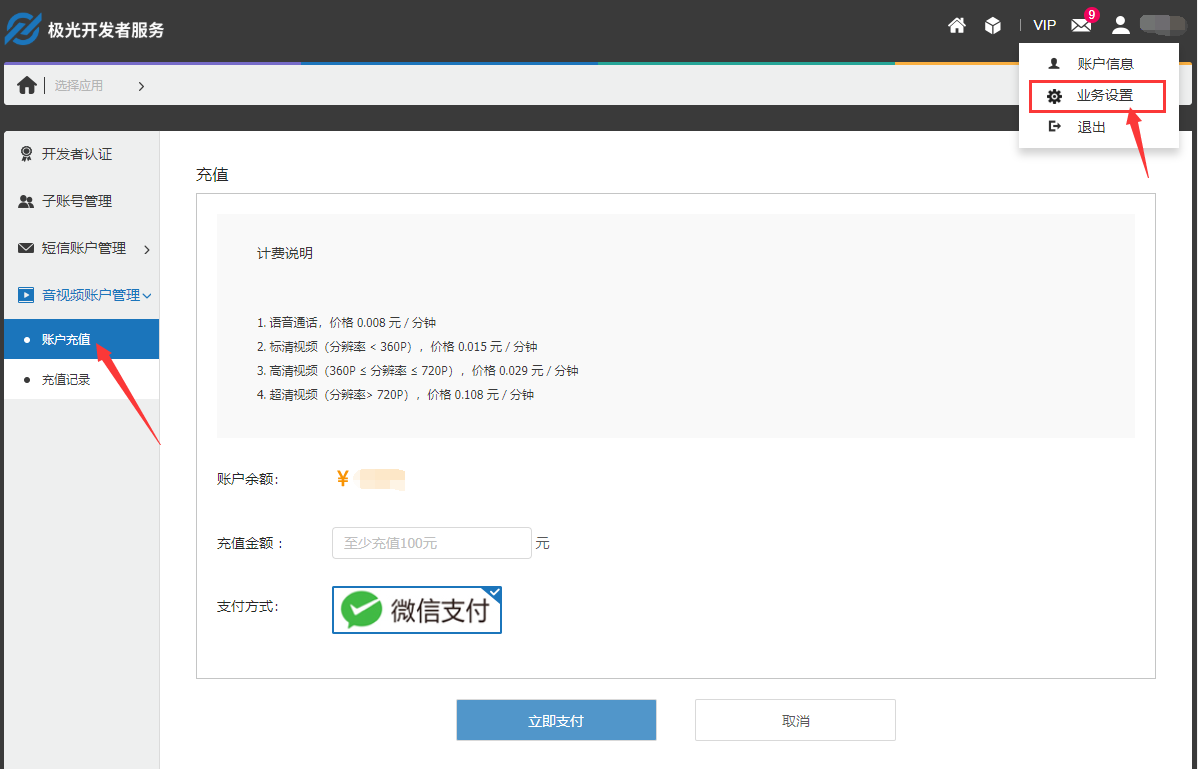
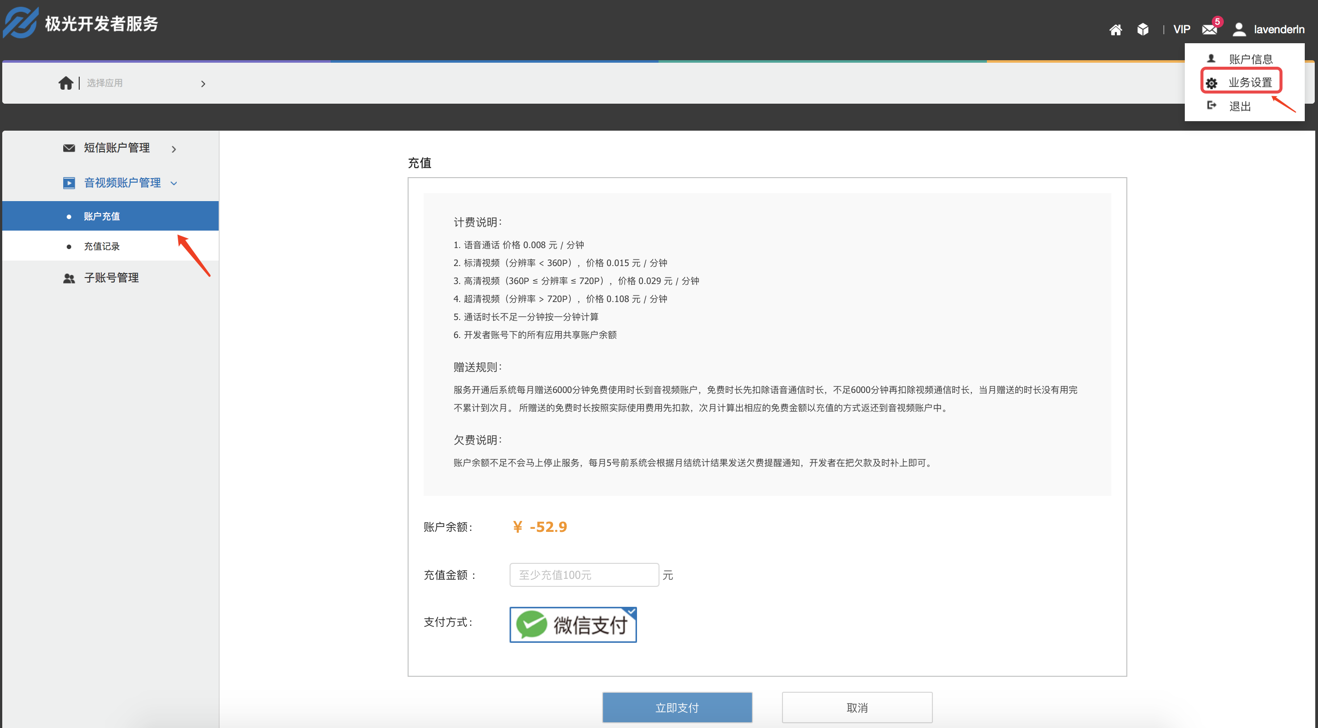
JMRTC试用时长修改，并修改一些拼写错误

diff --git a/zh/jmessage/guideline/faq.md b/zh/jmessage/guideline/faq.md
@@ -38,7 +38,7 @@
 + 高清视频（360P ≤ 分辨率 ≤ 720P），价格 0.029 元 / 分钟 
 + 超清视频（分辨率 > 720P），价格 0.108 元 / 分钟
 
-赠送规则：服务开通后系统每月赠送 10000 分钟免费使用时长到开发者账户，免费时长先扣除语音通信时长，不足10000 分钟再扣除视频通信时长，当月赠送的时长没有用完不累计到次月。所赠送的免费时长按照实际使用费用先扣款，次月计算出相应的免费金额以充值的方式返还到音视频账户中。
+赠送规则：服务开通后系统每月赠送 6000 分钟免费使用时长到开发者账户，免费时长先扣除语音通信时长，不足6000 分钟再扣除视频通信时长，当月赠送的时长没有用完不累计到次月。所赠送的免费时长按照实际使用费用先扣款，次月计算出相应的免费金额以充值的方式返还到音视频账户中。
 
 ### 计费方式
 
@@ -126,9 +126,10 @@
 
 <br />
 ## 怎么免费试用实时音视频服务？
-我们为每个账户提供10000分钟的免费使用时长，在试用期间不收取任何费用，试用时间结束将停止服务，如果需要继续使用需要正式开通服务。         
+我们为每个账户提供10000分钟的免费使用时长，在试用期间不收取任何费用，试用时间结束将停止服务，如果需要继续使用需要正式开通服务。
 开通方式：点击“申请试用”按钮，申请成功后即可开始试用音视频服务
 ![shiyong](../image/shiyong.png)
+![shiyong2](../image/shiyong2.png)
 
 
 <br />

diff --git a/zh/jmessage/client/im_jmrtc_android.md b/zh/jmessage/client/im_jmrtc_android.md
@@ -34,7 +34,7 @@
 #### 集成步骤:
 + 解压缩 jmessage-sdk-android-with-JMRTC-v2.X.Y.zip 集成压缩包
 + 如果您没有集成过JMessage或JMessage版本低于2.6.0需要先集成JMessage，请见[JMessage集成指南](./jmessage_android_guide)。
-	+ 注意下载的JMessage with JMRTC SDK包含JMessage SDK包，集成JMessgae时无需再下载
+	+ 注意下载的JMessage with JMRTC SDK包含JMessage SDK包，集成JMessage时无需再下载
 + 复制 libs/jmrtc-android-1.X.Y.jar.jar 到工程 libs/ 目录下。
 + 复制 libs/agora-rtc-sdk.jar 到工程 libs/ 目录下
 + 配置AndroidManifest.xml，查看AndroidManifest.xml是否包含以下内容，不包含则添加
